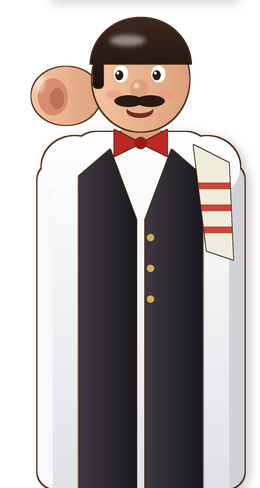
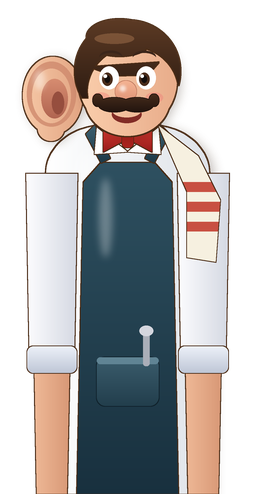
Tapon al Vuelo: zona de acierto mas generosa y camarero nuevo
- Cuenta si el centro de la chapa cae a menos de boca/2 + 3,5 cm; antes hacia
  falta la chapa entera dentro y tiros que parecian acierto salian "borde".
- Camarero redibujado: hombros redondos, delantal con bolsillo y abrebotellas,
  antebrazos remangados, pelo con tupe y una oreja de verdad (helix, concha,
  lobulo) pegada a la cabeza. Fuera el brillo gris del pelo y la franja gris
  de arriba (la sombra envolvia por el borde de la imagen).
- La cabeza choca con un radio algo menor que el dibujado.

diff --git a/src/features/minijuegos/juegos/tapon/modelo.test.ts b/src/features/minijuegos/juegos/tapon/modelo.test.ts
@@ -10,6 +10,7 @@ import {
   DIANAS,
   dianaFavorita,
   ficha,
+  GENEROSIDAD,
   GRAVEDAD,
   lanzar,
   MULTIPLICADORES,
@@ -104,16 +105,36 @@ describe('colarse por la boca', () => {
 
   it('un tiro que entra limpio por el centro cuenta', () => {
     assert.equal(choque(vaso, cx, cx, yb + 0.05, cx, yb - 0.01), 'dentro');
-    // Pegado al borde, pero con la chapa entera dentro, tambien.
-    const justo = cx + mitad - RADIO_CHAPA - 0.001;
-    assert.equal(choque(vaso, cx, justo, yb + 0.05, justo, yb - 0.01), 'dentro');
   });
 
-  it('un tiro que roza el borde NO cuenta (rebota)', () => {
-    for (const lejos of [mitad - RADIO_CHAPA + 0.002, mitad, mitad + RADIO_CHAPA]) {
+  it('se perdona: una chapa que muerde el borde por dentro o por poco fuera de la boca cuenta', () => {
+    // Antes hacia falta la chapa ENTERA dentro y esto salia "ha tocado el borde".
+    for (const lejos of [mitad - RADIO_CHAPA + 0.002, mitad, mitad + 0.01, vaso.ancho / 2 - 0.001]) {
+      for (const signo of [-1, 1]) {
+        const x = cx + signo * lejos;
+        assert.equal(choque(vaso, cx, x, yb + 0.05, x, yb - 0.01), 'dentro', `a ${signo * lejos} del centro`);
+      }
+    }
+    // La generosidad llega mas alla de la boca dibujada: hay un colchon de verdad.
+    assert.ok(GENEROSIDAD >= 0.03);
+  });
+
+  it('un tiro que cae sobre el vidrio o rozandolo por fuera NO cuenta (rebota)', () => {
+    const cuerpo = vaso.ancho / 2;
+    for (const lejos of [cuerpo + 0.002, cuerpo + RADIO_CHAPA - 0.002]) {
       const x = cx + lejos;
       assert.equal(choque(vaso, cx, x, yb + 0.05, x, yb - 0.01), 'borde', `a ${lejos} del centro`);
     }
+    // Y mas alla de eso, ni lo toca.
+    const lejos = cx + cuerpo + RADIO_CHAPA + 0.01;
+    assert.equal(choque(vaso, cx, lejos, yb + 0.05, lejos, yb - 0.01), null);
+  });
+
+  it('en la boca de la oreja, que no tiene cuerpo, tambien se perdona y mas alla no pasa nada', () => {
+    const oreja = ficha('oreja');
+    const y = oreja.alturaBoca;
+    assert.equal(choque(oreja, 2.5, 2.5 + oreja.boca / 2 + 0.02, y + 0.05, 2.5 + oreja.boca / 2 + 0.02, y - 0.01), 'dentro');
+    assert.equal(choque(oreja, 2.5, 2.5 + oreja.boca / 2 + 0.06, y + 0.05, 2.5 + oreja.boca / 2 + 0.06, y - 0.01), null);
   });
 
   it('tocar el vaso por el lado no cuenta, aunque luego quede dentro del ancho', () => {
@@ -142,7 +163,7 @@ describe('colarse por la boca', () => {
 
   it('la oreja no tiene cuerpo: rozarla no rebota, solo no cuenta', () => {
     const oreja = ficha('oreja');
-    const x = 2.5 + oreja.boca / 2;
+    const x = 2.5 + oreja.boca / 2 + GENEROSIDAD + 0.01;
     assert.equal(choque(oreja, 2.5, x, oreja.alturaBoca + 0.05, x, oreja.alturaBoca - 0.01), null);
     assert.equal(choque(oreja, 2.5, 2.5, 0.5, 2.5, 0.4), null);
   });

diff --git a/src/features/minijuegos/juegos/tapon/modelo.ts b/src/features/minijuegos/juegos/tapon/modelo.ts
@@ -21,6 +21,12 @@ export const RADIO_CHAPA = 0.03;
 export const ALTURA_SALIDA = 0.35;
 /** Velocidad de salida con el arrastre a tope (m/s). */
 export const VELOCIDAD_MAXIMA = 7.5;
+/**
+ * Cuanto se perdona (m) por fuera de la boca dibujada: el centro de la chapa
+ * puede caer a esta distancia mas alla del borde y cuenta como acierto. A ojo,
+ * una chapa que MORDIA el borde parecia dentro y no lo era.
+ */
+export const GENEROSIDAD = 0.035;
 /** Grosor de las paredes de los vasos (m): por donde se roza el borde. */
 export const PARED = 0.015;
 /** Un vuelo no dura mas que esto, pase lo que pase (s). */
@@ -75,7 +81,7 @@ export const DIANAS: readonly FichaDiana[] = [
  * se entendia que era aquella figura. Va a la DERECHA de la oreja y lo bastante
  * separada para que una chapa que cae limpia en la oreja no la roce antes.
  */
-export const CABEZA = { dx: 0.2, dy: 0.03, r: 0.11 };
+export const CABEZA = { dx: 0.17, dy: 0.04, r: 0.085 };
 
 const FICHA: Record<IdDiana, FichaDiana> = Object.fromEntries(DIANAS.map((d) => [d.id, d])) as Record<IdDiana, FichaDiana>;
 export const ficha = (id: IdDiana) => FICHA[id];
@@ -256,9 +262,11 @@ export function lanzar(p: Partida, vx: number, vy: number, t: number): Vuelo {
  * Lo que pasa en el tramo de (x0,y0) a (x1,y1) contra una diana cuya boca esta
  * centrada en `cx`. Exportada para probarla sin depender de una parabola.
  *
- *  - 'dentro': cruza la linea de la boca BAJANDO con la chapa entera dentro
- *    (centro a menos de boca/2 - radio del centro);
- *  - 'borde': cruza esa linea tocando el borde (a menos de boca/2 + radio), o
+ *  - 'dentro': cruza la linea de la boca BAJANDO con el CENTRO de la chapa a
+ *    menos de boca/2 + GENEROSIDAD del centro (sin pasar del cuerpo del vaso).
+ *    La primera version pedia la chapa ENTERA dentro y se quedaba en "ha tocado
+ *    el borde" tiros que a la vista habian entrado: frustraba;
+ *  - 'borde': cruza esa linea por fuera de eso (sobre el vidrio o rozandolo), o
  *    se mete en el cuerpo por el lado. Rebota y se acabo;
  *  - null: no toca.
  */
@@ -277,7 +285,7 @@ export function choque(
     // Donde corta la linea de la boca, interpolando: un paso largo no se la salta.
     const x = x0 + ((x1 - x0) * (y0 - yb)) / (y0 - y1);
     const lejos = Math.abs(x - cx);
-    if (lejos <= mitad - RADIO_CHAPA) return 'dentro';
+    if (lejos <= (d.cuerpo ? Math.min(mitad + GENEROSIDAD, fuera) : mitad + GENEROSIDAD)) return 'dentro';
     if (lejos <= fuera + RADIO_CHAPA) return d.cuerpo ? 'borde' : null;
   }
   // Por el lado: el cuerpo es un bloque de la barra a la boca.

diff --git a/src/features/minijuegos/juegos/tapon/spritesGeometria.ts b/src/features/minijuegos/juegos/tapon/spritesGeometria.ts
@@ -12,7 +12,7 @@ export const SPRITES = {
   vaso: { x0: -0.19, x1: 0.19, y0: -0.02, y1: 0.47, px: [167, 216] },
   jarra: { x0: -0.17, x1: 0.28, y0: -0.02, y1: 0.41, px: [198, 189] },
   caja: { x0: -0.23, x1: 0.23, y0: -0.02, y1: 0.35, px: [202, 163] },
-  camarero: { x0: -0.12, x1: 0.47, y0: 0.0, y1: 1.11, px: [260, 488] },
+  camarero: { x0: -0.12, x1: 0.47, y0: 0.0, y1: 1.122, px: [260, 494] },
   base: { x0: -0.34, x1: 0.2, y0: 0.0, y1: 0.3, px: [238, 132] },
   chapa: { x0: -0.055, x1: 0.055, y0: -0.055, y1: 0.055, px: [48, 48] },
   brazo: { x0: -0.310416, x1: 0.310416, y0: -0.07, y1: 0.07, px: [273, 62] },
@@ -23,4 +23,4 @@ export const PIVOTE = { x: -0.07, y: 0.12 };
 /** Del eje al centro de la cuchara (m). */
 export const LARGO_BRAZO = 0.240416;
 /** Medidas con las que se dibujo, para que el test las compare con modelo.ts. */
-export const DIBUJADO_CON = { alturaSalida: 0.35, vaso: {boca: 0.3, ancho: 0.33, alto: 0.42}, jarra: {boca: 0.24, ancho: 0.27, alto: 0.36}, caja: {boca: 0.2, ancho: 0.4, alto: 0.3}, oreja: {boca: 0.12, alto: 0.9}, cabeza: {dx: 0.2, dy: 0.03, r: 0.11} };
+export const DIBUJADO_CON = { alturaSalida: 0.35, vaso: {boca: 0.3, ancho: 0.33, alto: 0.42}, jarra: {boca: 0.24, ancho: 0.27, alto: 0.36}, caja: {boca: 0.2, ancho: 0.4, alto: 0.3}, oreja: {boca: 0.12, alto: 0.9}, cabeza: {dx: 0.17, dy: 0.04, r: 0.085} };

diff --git a/scripts/generar-sprites-tapon.py b/scripts/generar-sprites-tapon.py
@@ -36,7 +36,7 @@ VASO = dict(boca=0.30, ancho=0.33, alto=0.42)
 JARRA = dict(boca=0.24, ancho=0.27, alto=0.36)
 CAJA = dict(boca=0.20, ancho=0.40, alto=0.30)
 OREJA = dict(boca=0.12, alto=0.90)
-CABEZA = dict(dx=0.20, dy=0.03, r=0.11)
+CABEZA = dict(dx=0.17, dy=0.04, r=0.085)
 ALTURA_SALIDA = 0.35
 # Catapulta: el eje del brazo, respecto al punto de la barra bajo la cuchara.
 PIVOTE = (-0.07, 0.12)
@@ -133,7 +133,10 @@ class Lienzo:
         self.pegar(capa, luz)
 
     def sombra(self, mk, dx, dy, alfa=70, desenfoque=0.012):
-        s = ImageChops.offset(mk, int(self.m(dx)), int(-self.m(dy))).filter(ImageFilter.GaussianBlur(self.m(desenfoque)))
+        # Sin ImageChops.offset: ese ENVUELVE por el borde y metia la base del torso arriba, como una franja gris.
+        movida = Image.new('L', (self.w, self.h), 0)
+        movida.paste(mk, (int(self.m(dx)), int(-self.m(dy))))
+        s = movida.filter(ImageFilter.GaussianBlur(self.m(desenfoque)))
         self.color(s, (40, 20, 5, alfa))
 
     def guardar(self, nombre):
@@ -289,79 +292,138 @@ def caja():
 # --- Camarero -------------------------------------------------------------------
 
 
+def curva_hombros(cx, y_base, y_hombro, y_cuello, w_cuerpo, w_cuello, n=26):
+    """Contorno de un torso con hombros REDONDEADOS (un cuarto de elipse), no una caja."""
+    der = [(cx + w_cuerpo, y_base), (cx + w_cuerpo, y_hombro)]
+    for k in range(1, n + 1):
+        t = k / n
+        ang = t * math.pi / 2
+        der.append((cx + w_cuello + (w_cuerpo - w_cuello) * math.cos(ang), y_hombro + (y_cuello - y_hombro) * math.sin(ang)))
+    izq = [(2 * cx - x, y) for x, y in reversed(der)]
+    return der + izq
+
+
 def camarero():
-    """Medio cuerpo tras la barra, con la oreja izquierda grande: es la diana."""
-    yo = OREJA['alto']
-    hx, hy, r = CABEZA['dx'], yo + CABEZA['dy'], CABEZA['r']
-    lz = Lienzo(-0.12, 0.47, 0.0, hy + r + 0.07)
-    # Cuerpo: camisa blanca con mangas, chaleco negro, pajarita roja. Va detras de la barra.
-    cuello_y = hy - r - 0.01
-    hombro_y = cuello_y - 0.07
-    torso = ImageChops.lighter(
-        lz.rect(hx - 0.2, 0, hx + 0.2, hombro_y, 0.0),
-        ImageChops.lighter(lz.elipse(hx - 0.15, hombro_y - 0.01, 0.075, 0.07), lz.elipse(hx + 0.15, hombro_y - 0.01, 0.075, 0.07)),
-    )
-    torso = ImageChops.lighter(torso, lz.rect(hx - 0.16, hombro_y - 0.05, hx + 0.16, cuello_y, 0.06))
-    brazos = ImageChops.lighter(lz.rect(hx - 0.235, 0, hx - 0.14, hombro_y, 0.04), lz.rect(hx + 0.14, 0, hx + 0.235, hombro_y, 0.04))
-    lz.sombra(ImageChops.lighter(torso, brazos), 0.01, -0.004)
-    lz.contorno(ImageChops.lighter(torso, brazos))
-    lz.degradado(brazos, (250, 250, 252, 255), (206, 208, 214, 255), horizontal=True)
-    lz.degradado(torso, (255, 255, 255, 255), (224, 226, 230, 255))
+    """Medio cuerpo tras la barra, con una OREJA grande y bien hecha: es la diana."""
+    hx = CABEZA['dx']
+    hy = OREJA['alto'] + CABEZA['dy']
+    R = 0.112  # la cabeza se dibuja un poco mas grande que lo que choca (CABEZA['r'])
+    lz = Lienzo(-0.12, 0.47, 0.0, hy + R + 0.07)
+    cuello_y = hy - R * 0.92
+    hombro_y = cuello_y - 0.11
+    ancho = 0.185
+
+    # Torso: camisa blanca con hombros redondos, sombreada hacia los lados.
+    forma = lz.poligono(curva_hombros(hx, 0, hombro_y, cuello_y, ancho, 0.05))
+    lz.sombra(forma, 0.012, -0.006)
+    lz.contorno(forma)
+    lz.degradado(forma, (255, 255, 255, 255), (222, 226, 232, 255), horizontal=True)
+    lz.brillo(forma, hx - 0.09, hombro_y - 0.02, 0.025, 0.07, 110, 0.012)
+    # Brazos: la manga baja hasta un puno doblado y de ahi, el antebrazo con piel.
     for lado in (-1, 1):
-        lz.color(lz.rect(hx + lado * 0.14 - 0.004, 0, hx + lado * 0.14 + 0.004, hombro_y - 0.03), (170, 172, 180, 255))
-    chaleco_i = lz.poligono([(hx - 0.14, 0), (hx - 0.01, 0), (hx - 0.01, cuello_y - 0.2), (hx - 0.07, cuello_y - 0.04), (hx - 0.14, hombro_y - 0.03)])
-    chaleco_d = lz.poligono([(hx + 0.14, 0), (hx + 0.01, 0), (hx + 0.01, cuello_y - 0.2), (hx + 0.07, cuello_y - 0.04), (hx + 0.14, hombro_y - 0.03)])
-    for ch in (chaleco_i, chaleco_d):
-        lz.contorno(ch, 0.004)
-        lz.degradado(ch, (62, 56, 66, 255), (26, 24, 30, 255), horizontal=True)
-    for k in range(3):
-        lz.color(lz.elipse(hx + 0.022, cuello_y - 0.24 - k * 0.07, 0.008, 0.008), (210, 176, 90, 255))
-    # Trapo al hombro.
-    trapo = lz.poligono([(hx + 0.12, hombro_y + 0.04), (hx + 0.2, hombro_y + 0.0), (hx + 0.21, hombro_y - 0.22), (hx + 0.15, hombro_y - 0.2)])
+        cx_b = hx + lado * 0.172
+        antebrazo = lz.poligono([(cx_b - 0.034, 0.0), (cx_b + 0.034, 0.0), (cx_b + 0.04, 0.31), (cx_b - 0.04, 0.31)])
+        lz.contorno(antebrazo, 0.005)
+        lz.degradado(antebrazo, (238, 184, 150, 255), (216, 152, 118, 255), horizontal=True)
+        manga = lz.poligono([(cx_b - 0.05, 0.28), (cx_b + 0.05, 0.28), (cx_b + 0.058, hombro_y + 0.0), (cx_b - 0.058, hombro_y + 0.0)])
+        lz.contorno(manga, 0.005)
+        lz.degradado(manga, (252, 252, 254, 255), (212, 216, 226, 255), horizontal=True)
+        puno = lz.rect(cx_b - 0.056, 0.275, cx_b + 0.056, 0.335, 0.014)
+        lz.contorno(puno, 0.004)
+        lz.degradado(puno, (236, 240, 248, 255), (190, 198, 214, 255))
+    # Delantal de barman: peto oscuro con tirantes al cuello, bolsillo y cordon.
+    peto = lz.poligono([(hx - 0.115, 0), (hx + 0.115, 0), (hx + 0.1, hombro_y - 0.02), (hx + 0.06, cuello_y - 0.085),
+                        (hx - 0.06, cuello_y - 0.085), (hx - 0.1, hombro_y - 0.02)])
+    lz.contorno(peto, 0.005)
+    lz.degradado(peto, (46, 80, 96, 255), (24, 48, 62, 255))
+    for lado in (-1, 1):
+        tirante = lz.poligono([(hx + lado * 0.06, cuello_y - 0.085), (hx + lado * 0.095, cuello_y - 0.02), (hx + lado * 0.075, cuello_y + 0.0),
+                               (hx + lado * 0.04, cuello_y - 0.075)])
+        lz.contorno(tirante, 0.004)
+        lz.degradado(tirante, (60, 96, 112, 255), (30, 56, 70, 255))
+    bolsillo = lz.rect(hx - 0.07, 0.2, hx + 0.07, 0.31, 0.02)
+    lz.contorno(bolsillo, 0.004, (16, 34, 44, 255))
+    lz.degradado(bolsillo, (58, 92, 108, 255), (34, 62, 76, 255))
+    lz.color(lz.rect(hx - 0.07, 0.295, hx + 0.07, 0.31, 0.01), (96, 132, 148, 255))
+    # Un abrebotellas asomando del bolsillo.
+    lz.color(lz.rect(hx + 0.035, 0.29, hx + 0.05, 0.37, 0.006), (170, 174, 184, 255))
+    lz.color(lz.elipse(hx + 0.0425, 0.37, 0.016, 0.012), (212, 214, 222, 255))
+    lz.brillo(peto, hx - 0.05, hombro_y - 0.1, 0.015, 0.09, 80, 0.008)
+    # Trapo al hombro, con rayas.
+    trapo = lz.poligono([(hx + 0.07, cuello_y + 0.0), (hx + 0.16, hombro_y + 0.04), (hx + 0.21, hombro_y - 0.06), (hx + 0.2, hombro_y - 0.2),
+                         (hx + 0.135, hombro_y - 0.19), (hx + 0.135, hombro_y - 0.04)])
     lz.contorno(trapo, 0.004)
-    lz.color(trapo, (240, 236, 220, 255))
-    for i in range(3):
-        lz.color(interseccion(lz.rect(hx + 0.1, hombro_y - 0.06 - i * 0.05, hx + 0.24, hombro_y - 0.045 - i * 0.05), trapo), (196, 70, 60, 255))
-    # Cuello y cabeza.
-    cuello = lz.rect(hx - 0.045, cuello_y - 0.03, hx + 0.045, hy - r + 0.04, 0.02)
-    lz.color(cuello, PIEL_SOMBRA)
-    paja = ImageChops.lighter(lz.poligono([(hx, hy - r - 0.035), (hx - 0.06, hy - r - 0.005), (hx - 0.06, hy - r - 0.065)]),
-                              lz.poligono([(hx, hy - r - 0.035), (hx + 0.06, hy - r - 0.005), (hx + 0.06, hy - r - 0.065)]))
-    lz.contorno(paja, 0.004)
-    lz.color(paja, (190, 40, 36, 255))
-    lz.color(lz.elipse(hx, hy - r - 0.035, 0.014, 0.014), (150, 26, 24, 255))
-    # La oreja (diana): grande, a la izquierda, con su pabellon.
-    ox, oyc = 0.0, yo
-    # Se alarga hacia la cabeza, que se pinta encima y tapa su lado derecho: asi va pegada.
-    oreja = lz.elipse(ox + 0.03, oyc - 0.008, 0.078, 0.066)
+    lz.color(trapo, (246, 240, 224, 255))
+    for k in range(3):
+        y = hombro_y - 0.03 - k * 0.045
+        lz.color(interseccion(lz.rect(hx + 0.12, y - 0.011, hx + 0.23, y + 0.011), trapo), (200, 80, 66, 255))
+    # Cuello y cuello de la camisa en pico.
+    cuello = lz.rect(hx - 0.04, cuello_y - 0.04, hx + 0.04, hy - R * 0.5, 0.02)
+    lz.contorno(cuello, 0.004)
+    lz.degradado(cuello, (232, 176, 142, 255), (206, 140, 108, 255), horizontal=True)
+    for lado in (-1, 1):
+        solapa = lz.poligono([(hx, cuello_y - 0.06), (hx + lado * 0.07, cuello_y - 0.005), (hx + lado * 0.075, cuello_y - 0.065)])
+        lz.contorno(solapa, 0.004)
+        lz.color(solapa, (255, 255, 255, 255))
+    # Pajarita roja.
+    for lado in (-1, 1):
+        ala = lz.poligono([(hx, cuello_y - 0.03), (hx + lado * 0.055, cuello_y - 0.005), (hx + lado * 0.055, cuello_y - 0.06)])
+        lz.contorno(ala, 0.004)
+        lz.degradado(ala, (214, 56, 48, 255), (150, 28, 26, 255))
+    nudo = lz.rect(hx - 0.013, cuello_y - 0.05, hx + 0.013, cuello_y - 0.012, 0.01)
+    lz.contorno(nudo, 0.003)
+    lz.color(nudo, (170, 34, 30, 255))
+
+    # LA OREJA (la diana): grande, de perfil, con su hélix, el antehelix y el lobulo. Va detras de la cabeza.
+    ox, oy = 0.0, OREJA['alto']
+    pabellon = lz.elipse(ox, oy + 0.005, 0.068, 0.088)
+    lobulo = lz.elipse(ox - 0.004, oy - 0.07, 0.03, 0.028)
+    oreja = ImageChops.lighter(pabellon, lobulo)
+    lz.sombra(oreja, 0.008, -0.004)
     lz.contorno(oreja, 0.005)
-    lz.degradado(oreja, PIEL, PIEL_SOMBRA, horizontal=True)
-    lz.color(lz.elipse(ox + 0.0, oyc - 0.01, 0.034, 0.042), (214, 140, 110, 255))
-    lz.color(lz.elipse(ox + 0.01, oyc - 0.014, 0.016, 0.024), (190, 112, 88, 255))
-    lz.brillo(oreja, ox - 0.03, oyc + 0.02, 0.012, 0.02, 120, 0.004)
-    cabeza = lz.elipse(hx, hy, r, r * 1.08)
-    lz.contorno(cabeza)
-    lz.degradado(cabeza, PIEL, PIEL_SOMBRA, horizontal=True)
-    # Pelo con raya y patillas.
-    pelo = interseccion(lz.elipse(hx, hy + 0.03, r * 1.04, r * 1.0), lz.rect(hx - r * 1.1, hy + 0.035, hx + r * 1.1, hy + r * 1.3))
-    pelo = ImageChops.lighter(pelo, lz.rect(hx - r * 0.98, hy - 0.02, hx - r * 0.78, hy + 0.06, 0.01))
-    lz.contorno(pelo, 0.004)
-    lz.degradado(pelo, (60, 40, 30, 255), (28, 18, 14, 255))
-    lz.brillo(pelo, hx - 0.03, hy + r * 0.8, 0.04, 0.012, 120, 0.005)
-    # Cara: cejas, ojos, nariz, bigote, sonrisa, mofletes.
-    for dx in (-0.045, 0.04):
-        lz.color(lz.elipse(hx + dx, hy + 0.012, 0.016, 0.019), (255, 255, 255, 255))
-        lz.color(lz.elipse(hx + dx - 0.004, hy + 0.009, 0.009, 0.011), (40, 30, 26, 255))
-        lz.color(lz.elipse(hx + dx - 0.007, hy + 0.014, 0.003, 0.003), (255, 255, 255, 255))
-        lz.color(lz.rect(hx + dx - 0.02, hy + 0.04, hx + dx + 0.018, hy + 0.05, 0.004), (40, 26, 20, 255))
-        lz.color(lz.elipse(hx + dx * 1.35, hy - 0.035, 0.018, 0.011), (240, 140, 130, 120))
-    nariz = lz.elipse(hx - 0.004, hy - 0.022, 0.02, 0.022)
-    lz.color(nariz, PIEL_SOMBRA)
-    lz.brillo(nariz, hx - 0.01, hy - 0.015, 0.006, 0.006, 160, 0.002)
-    bigote = ImageChops.lighter(lz.elipse(hx - 0.028, hy - 0.05, 0.032, 0.013), lz.elipse(hx + 0.022, hy - 0.05, 0.032, 0.013))
-    lz.color(bigote, (40, 26, 20, 255))
-    sonrisa = resta(lz.elipse(hx - 0.002, hy - 0.072, 0.03, 0.016), lz.elipse(hx - 0.002, hy - 0.064, 0.03, 0.013))
-    lz.color(sonrisa, (120, 40, 34, 255))
+    lz.degradado(oreja, (246, 200, 166, 255), (226, 164, 130, 255), horizontal=True)
+    # Helix: el aro exterior, mas oscuro, y la concha interior en sombra.
+    aro = resta(lz.elipse(ox - 0.003, oy + 0.008, 0.056, 0.074), lz.elipse(ox - 0.003, oy + 0.004, 0.044, 0.062))
+    lz.color(aro, (206, 136, 108, 200))
+    lz.degradado(lz.elipse(ox + 0.004, oy - 0.002, 0.03, 0.045), (214, 140, 112, 255), (176, 100, 80, 255))
+    lz.color(lz.elipse(ox + 0.012, oy - 0.012, 0.014, 0.026), (150, 78, 62, 255))
+    lz.brillo(oreja, ox - 0.03, oy + 0.04, 0.012, 0.022, 110, 0.006)
+
+    # Cabeza redonda con barbilla suave.
+    cara = ImageChops.lighter(lz.elipse(hx, hy, R, R * 1.03), lz.elipse(hx, hy - R * 0.38, R * 0.86, R * 0.75))
+    lz.sombra(cara, 0.008, -0.004)
+    lz.contorno(cara)
+    lz.degradado(cara, (250, 206, 172, 255), (232, 172, 138, 255), horizontal=True)
+    # Pelo: casquete con tupe hacia delante y patillas. Sin brillos grandes.
+    casquete = resta(lz.elipse(hx, hy + 0.02, R * 1.07, R * 1.04), lz.elipse(hx + 0.012, hy - 0.025, R * 0.93, R * 0.9))
+    tupe = lz.elipse(hx - 0.018, hy + R * 0.86, 0.075, 0.042)
+    flequillo = lz.poligono([(hx - 0.085, hy + 0.03), (hx + 0.07, hy + 0.04), (hx + 0.045, hy + 0.012), (hx - 0.03, hy + 0.01)])
+    pelo = interseccion(ImageChops.lighter(ImageChops.lighter(casquete, tupe), flequillo), lz.rect(hx - R * 1.2, hy - 0.04, hx + R * 1.2, hy + R * 1.4))
+    lz.contorno(pelo, 0.005)
+    lz.degradado(pelo, (92, 58, 36, 255), (46, 28, 18, 255))
+    mecha = interseccion(lz.elipse(hx - 0.03, hy + R * 0.84, 0.045, 0.012), pelo)
+    lz.color(mecha, (150, 104, 70, 150))
+    # Cejas, ojos, nariz, bigote, sonrisa y mofletes.
+    for dx in (-0.042, 0.042):
+        lz.color(lz.elipse(hx + dx, hy + 0.005, 0.022, 0.026), (255, 255, 255, 255))
+        lz.color(lz.elipse(hx + dx - 0.004, hy + 0.002, 0.012, 0.015), (74, 44, 26, 255))
+        lz.color(lz.elipse(hx + dx - 0.004, hy + 0.002, 0.0065, 0.0085), (20, 14, 12, 255))
+        lz.color(lz.elipse(hx + dx - 0.009, hy + 0.009, 0.0042, 0.0042), (255, 255, 255, 255))
+        ceja = resta(lz.elipse(hx + dx + (0.004 if dx < 0 else -0.004), hy + 0.053, 0.026, 0.014),
+                     lz.elipse(hx + dx + (0.004 if dx < 0 else -0.004), hy + 0.047, 0.028, 0.0145))
+        lz.color(ceja, (60, 38, 26, 255))
+        lz.color(lz.elipse(hx + dx * 1.45, hy - 0.04, 0.02, 0.012), (240, 128, 120, 110))
+    nariz = lz.elipse(hx - 0.004, hy - 0.026, 0.024, 0.024)
+    lz.contorno(nariz, 0.003, (190, 120, 94, 255))
+    lz.degradado(nariz, (244, 178, 146, 255), (222, 148, 118, 255))
+    lz.brillo(nariz, hx - 0.011, hy - 0.019, 0.007, 0.007, 170, 0.003)
+    # Bigote de manillar con las puntas rizadas.
+    bigote = ImageChops.lighter(lz.elipse(hx - 0.03, hy - 0.056, 0.036, 0.016), lz.elipse(hx + 0.022, hy - 0.056, 0.036, 0.016))
+    bigote = ImageChops.lighter(bigote, ImageChops.lighter(lz.elipse(hx - 0.068, hy - 0.046, 0.011, 0.014), lz.elipse(hx + 0.06, hy - 0.046, 0.011, 0.014)))
+    lz.contorno(bigote, 0.003, (30, 18, 12, 255))
+    lz.degradado(bigote, (70, 44, 28, 255), (34, 20, 14, 255))
+    sonrisa = resta(lz.elipse(hx - 0.002, hy - 0.078, 0.034, 0.02), lz.elipse(hx - 0.002, hy - 0.068, 0.034, 0.017))
+    lz.color(sonrisa, (130, 44, 38, 255))
     return lz.guardar('camarero.png'), lz.extent
 
 
